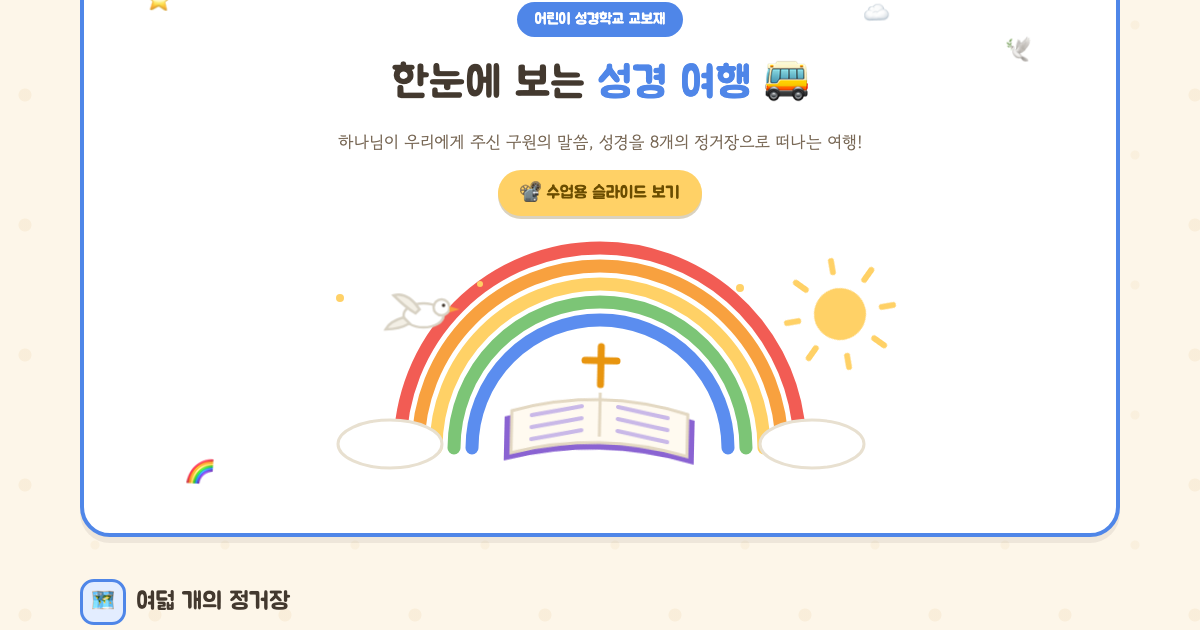
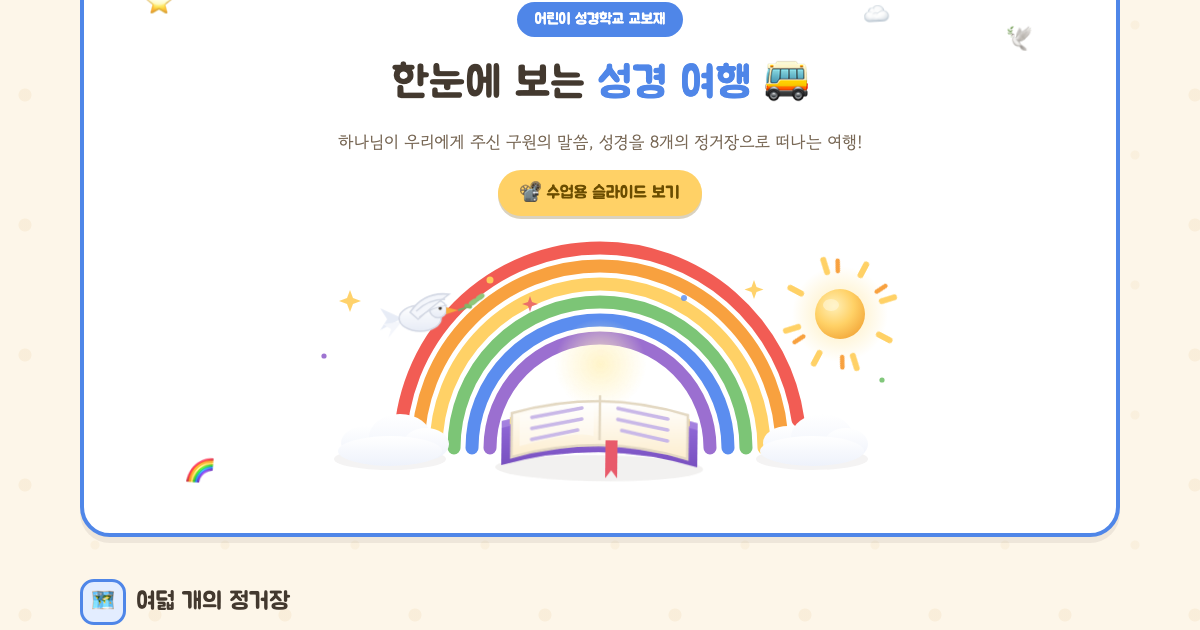
메인 히어로 일러스트 고도화 (비둘기·성경책·해·무지개·구름)
- 해: 글로우 + 2단 광선 + 그라데이션 코어
- 무지개: 보라 추가(6색) + 둥근 끝
- 구름: 다층 퍼프 + 그림자로 입체감
- 성경: 금박 페이지·책갈피 리본·왼면 하이라이트·십자가 후광·그라데이션 표지
- 비둘기: 그라데이션 몸통·날개 깃·꼬리깃·올리브 가지
- 반짝임 4점 별 추가, OG 썸네일 재생성

diff --git a/index.html b/index.html
@@ -60,55 +60,137 @@
     <!-- 직접 그린 SVG 일러스트 (저작권 걱정 없음) -->
     <div class="hero-art">
       <svg viewBox="0 -24 640 264" width="640" role="img" aria-label="펼쳐진 성경책 위로 무지개와 비둘기가 있는 그림">
+        <defs>
+          <radialGradient id="hhSun" cx="38%" cy="34%" r="72%">
+            <stop offset="0" stop-color="#fff0b8"/><stop offset="55%" stop-color="#ffd166"/><stop offset="100%" stop-color="#f3a93c"/>
+          </radialGradient>
+          <radialGradient id="hhSunGlow" cx="50%" cy="50%" r="50%">
+            <stop offset="0" stop-color="#ffe9a8" stop-opacity="0.85"/><stop offset="100%" stop-color="#ffe9a8" stop-opacity="0"/>
+          </radialGradient>
+          <linearGradient id="hhCover" x1="0" y1="0" x2="0" y2="1">
+            <stop offset="0" stop-color="#9a72e0"/><stop offset="100%" stop-color="#7850c0"/>
+          </linearGradient>
+          <linearGradient id="hhPage" x1="0" y1="0" x2="0" y2="1">
+            <stop offset="0" stop-color="#ffffff"/><stop offset="100%" stop-color="#fdeecf"/>
+          </linearGradient>
+          <radialGradient id="hhHalo" cx="50%" cy="50%" r="50%">
+            <stop offset="0" stop-color="#fff3c4" stop-opacity="0.95"/><stop offset="100%" stop-color="#fff3c4" stop-opacity="0"/>
+          </radialGradient>
+          <linearGradient id="hhCloud" x1="0" y1="0" x2="0" y2="1">
+            <stop offset="0" stop-color="#ffffff"/><stop offset="100%" stop-color="#eef2fb"/>
+          </linearGradient>
+          <linearGradient id="hhDove" x1="0" y1="0" x2="0" y2="1">
+            <stop offset="0" stop-color="#ffffff"/><stop offset="100%" stop-color="#e7ecf6"/>
+          </linearGradient>
+          <linearGradient id="hhCross" x1="0" y1="0" x2="0" y2="1">
+            <stop offset="0" stop-color="#ffd86b"/><stop offset="100%" stop-color="#e8950f"/>
+          </linearGradient>
+        </defs>
         <!-- 해 -->
-        <g class="anim-spin" style="transform-box: fill-box;">
-          <circle cx="560" cy="56" r="26" fill="#ffd166"/>
-          <g stroke="#ffd166" stroke-width="6" stroke-linecap="round">
-            <line x1="560" y1="14" x2="560" y2="2"/><line x1="560" y1="98" x2="560" y2="110"/>
-            <line x1="518" y1="56" x2="506" y2="56"/><line x1="602" y1="56" x2="614" y2="56"/>
-            <line x1="530" y1="26" x2="522" y2="18"/><line x1="590" y1="86" x2="598" y2="94"/>
-            <line x1="530" y1="86" x2="522" y2="94"/><line x1="590" y1="26" x2="598" y2="18"/>
+        <g>
+          <circle cx="560" cy="56" r="48" fill="url(#hhSunGlow)"/>
+          <g class="anim-spin" style="transform-box: fill-box;">
+            <g stroke="#ffd166" stroke-width="6" stroke-linecap="round">
+              <line x1="560" y1="12" x2="560" y2="0"/><line x1="560" y1="100" x2="560" y2="112"/>
+              <line x1="516" y1="56" x2="504" y2="56"/><line x1="604" y1="56" x2="616" y2="56"/>
+              <line x1="529" y1="25" x2="520" y2="16"/><line x1="591" y1="87" x2="600" y2="96"/>
+              <line x1="529" y1="87" x2="520" y2="96"/><line x1="591" y1="25" x2="600" y2="16"/>
+            </g>
+            <g stroke="#f8a13f" stroke-width="4.5" stroke-linecap="round">
+              <line x1="538" y1="19" x2="533" y2="10"/><line x1="582" y1="19" x2="587" y2="10"/>
+              <line x1="538" y1="93" x2="533" y2="102"/><line x1="582" y1="93" x2="587" y2="102"/>
+            </g>
           </g>
+          <circle cx="560" cy="56" r="25" fill="url(#hhSun)"/>
+          <ellipse cx="551" cy="47" rx="8" ry="6" fill="#fff6d8" opacity="0.6"/>
         </g>
         <!-- 무지개 -->
         <g fill="none" stroke-linecap="round">
           <path class="anim-draw" d="M120 190 A 200 200 0 0 1 520 190" stroke="#f25c54" stroke-width="13"/>
-          <path class="anim-draw" d="M138 190 A 182 182 0 0 1 502 190" stroke="#f8a13f" stroke-width="13" style="animation-delay:0.55s"/>
-          <path class="anim-draw" d="M156 190 A 164 164 0 0 1 484 190" stroke="#ffd166" stroke-width="13" style="animation-delay:0.7s"/>
-          <path class="anim-draw" d="M174 190 A 146 146 0 0 1 466 190" stroke="#7cc576" stroke-width="13" style="animation-delay:0.85s"/>
-          <path class="anim-draw" d="M192 190 A 128 128 0 0 1 448 190" stroke="#5b8def" stroke-width="13" style="animation-delay:1s"/>
+          <path class="anim-draw" d="M138 190 A 182 182 0 0 1 502 190" stroke="#f8a13f" stroke-width="13" style="animation-delay:0.5s"/>
+          <path class="anim-draw" d="M156 190 A 164 164 0 0 1 484 190" stroke="#ffd166" stroke-width="13" style="animation-delay:0.65s"/>
+          <path class="anim-draw" d="M174 190 A 146 146 0 0 1 466 190" stroke="#7cc576" stroke-width="13" style="animation-delay:0.8s"/>
+          <path class="anim-draw" d="M192 190 A 128 128 0 0 1 448 190" stroke="#5b8def" stroke-width="13" style="animation-delay:0.95s"/>
+          <path class="anim-draw" d="M210 190 A 110 110 0 0 1 430 190" stroke="#9b6fd0" stroke-width="13" style="animation-delay:1.1s"/>
         </g>
         <!-- 구름 -->
-        <g fill="#ffffff" stroke="#e8e0d0" stroke-width="3">
-          <ellipse cx="110" cy="186" rx="52" ry="24"/>
-          <ellipse cx="532" cy="186" rx="52" ry="24"/>
+        <g>
+          <ellipse cx="110" cy="201" rx="56" ry="11" fill="#43392f" opacity="0.06"/>
+          <ellipse cx="86" cy="185" rx="25" ry="17" fill="url(#hhCloud)"/>
+          <ellipse cx="120" cy="179" rx="31" ry="23" fill="url(#hhCloud)"/>
+          <ellipse cx="146" cy="186" rx="23" ry="16" fill="url(#hhCloud)"/>
+          <ellipse cx="110" cy="193" rx="52" ry="15" fill="url(#hhCloud)"/>
+        </g>
+        <g>
+          <ellipse cx="532" cy="201" rx="56" ry="11" fill="#43392f" opacity="0.06"/>
+          <ellipse cx="508" cy="185" rx="25" ry="17" fill="url(#hhCloud)"/>
+          <ellipse cx="542" cy="179" rx="31" ry="23" fill="url(#hhCloud)"/>
+          <ellipse cx="566" cy="186" rx="22" ry="16" fill="url(#hhCloud)"/>
+          <ellipse cx="532" cy="193" rx="52" ry="15" fill="url(#hhCloud)"/>
         </g>
         <!-- 펼쳐진 성경 -->
         <g class="anim-bob" style="transform-box: fill-box;">
-          <path d="M225 168 Q 320 140 415 168 L 415 212 Q 320 186 225 212 Z" fill="#8a63d2"/>
-          <path d="M232 162 Q 320 136 408 162 L 408 204 Q 320 180 232 204 Z" fill="#fffaf0" stroke="#e3d8c2" stroke-width="3"/>
-          <line x1="320" y1="142" x2="320" y2="186" stroke="#e3d8c2" stroke-width="3"/>
-          <g stroke="#c9b8e8" stroke-width="4" stroke-linecap="round">
-            <line x1="252" y1="166" x2="302" y2="156"/><line x1="252" y1="178" x2="302" y2="168"/><line x1="252" y1="190" x2="302" y2="180"/>
-            <line x1="338" y1="156" x2="388" y2="166"/><line x1="338" y1="168" x2="388" y2="178"/><line x1="338" y1="180" x2="388" y2="190"/>
+          <ellipse cx="320" cy="216" rx="104" ry="13" fill="#43392f" opacity="0.07"/>
+          <!-- 십자가 후광 -->
+          <circle cx="320" cy="112" r="46" fill="url(#hhHalo)" class="anim-blink"/>
+          <!-- 표지 -->
+          <path d="M222 170 Q 320 140 418 170 L 418 214 Q 320 186 222 214 Z" fill="url(#hhCover)"/>
+          <path d="M222 170 Q 320 140 418 170 L 418 177 Q 320 148 222 177 Z" fill="#b79ae8" opacity="0.5"/>
+          <!-- 페이지 금박 가장자리 -->
+          <path d="M230 166 Q 320 138 410 166 L 410 173 Q 320 145 230 173 Z" fill="#f4d98a"/>
+          <!-- 펼친 면 -->
+          <path d="M232 162 Q 320 136 408 162 L 408 206 Q 320 180 232 206 Z" fill="url(#hhPage)" stroke="#e3d8c2" stroke-width="2.5"/>
+          <line x1="320" y1="143" x2="320" y2="188" stroke="#e3d8c2" stroke-width="2.5"/>
+          <!-- 왼쪽 면 하이라이트 -->
+          <path d="M240 164 Q 296 147 314 153 L 314 184 Q 298 178 240 195 Z" fill="#ffffff" opacity="0.4"/>
+          <g stroke="#c9b8e8" stroke-width="3.5" stroke-linecap="round">
+            <line x1="252" y1="166" x2="302" y2="156"/><line x1="252" y1="177" x2="302" y2="167"/><line x1="252" y1="188" x2="298" y2="178"/>
+            <line x1="338" y1="156" x2="388" y2="166"/><line x1="338" y1="167" x2="388" y2="177"/><line x1="342" y1="178" x2="388" y2="188"/>
           </g>
+          <!-- 책갈피 리본 -->
+          <path d="M326 188 L 338 188 L 338 226 L 332 218 L 326 226 Z" fill="#e85a6a"/>
           <!-- 십자가 -->
-          <g stroke="#e8950f" stroke-width="7" stroke-linecap="round">
-            <line x1="320" y1="96" x2="320" y2="134"/>
-            <line x1="304" y1="110" x2="336" y2="110"/>
+          <g stroke="url(#hhCross)" stroke-width="7.5" stroke-linecap="round">
+            <line x1="320" y1="92" x2="320" y2="134"/>
+            <line x1="302" y1="108" x2="338" y2="108"/>
           </g>
+          <circle cx="320" cy="100" r="3" fill="#fff6d8" opacity="0.85"/>
         </g>
         <!-- 비둘기 -->
         <g class="anim-fly" style="transform-box: fill-box;">
-          <ellipse cx="120" cy="70" rx="20" ry="12" fill="#ffffff" stroke="#d8d2c4" stroke-width="2.5"/>
-          <circle cx="138" cy="62" r="8" fill="#ffffff" stroke="#d8d2c4" stroke-width="2.5"/>
-          <polygon points="146,61 156,64 146,67" fill="#f8a13f"/>
-          <circle cx="140" cy="60" r="1.7" fill="#43392f"/>
-          <path d="M116 64 Q 104 46 90 50 Q 102 62 112 68 Z" fill="#f3efe5" stroke="#d8d2c4" stroke-width="2.5"/>
-          <path d="M100 72 Q 86 76 82 84 Q 96 84 106 78 Z" fill="#f3efe5" stroke="#d8d2c4" stroke-width="2.5"/>
+          <!-- 꼬리깃 -->
+          <path d="M104 70 L 82 60 L 89 71 L 82 82 Z" fill="#e7ecf6"/>
+          <path d="M104 73 L 85 76 L 93 81 L 90 90 Z" fill="#f4f6fb"/>
+          <!-- 몸통 -->
+          <ellipse cx="122" cy="70" rx="21" ry="13" fill="url(#hhDove)" stroke="#d3d8e4" stroke-width="1.5"/>
+          <!-- 머리 -->
+          <circle cx="140" cy="61" r="8.5" fill="url(#hhDove)" stroke="#d3d8e4" stroke-width="1.5"/>
+          <!-- 부리 -->
+          <polygon points="148,59 160,62 148,66" fill="#f5a93c"/>
+          <!-- 눈 -->
+          <circle cx="142" cy="60" r="1.7" fill="#43392f"/>
+          <!-- 날개 -->
+          <path d="M112 64 Q 126 43 151 46 Q 132 60 120 71 Z" fill="#f4f6fb" stroke="#d3d8e4" stroke-width="1.5"/>
+          <path d="M118 63 Q 130 51 147 51" fill="none" stroke="#d3d8e4" stroke-width="1.4"/>
+          <path d="M121 69 Q 133 59 149 57" fill="none" stroke="#d3d8e4" stroke-width="1.2"/>
+          <!-- 올리브 가지 -->
+          <path d="M160 62 q12 -3 21 -11" fill="none" stroke="#7aa86a" stroke-width="2"/>
+          <ellipse cx="175" cy="54" rx="5" ry="2.6" fill="#8fc77a" transform="rotate(-32 175 54)"/>
+          <ellipse cx="182" cy="49" rx="5" ry="2.6" fill="#8fc77a" transform="rotate(-32 182 49)"/>
+          <ellipse cx="170" cy="58" rx="4" ry="2.2" fill="#7bb968" transform="rotate(18 170 58)"/>
         </g>
-        <!-- 별 -->
-        <g fill="#ffd166" class="anim-blink"><circle cx="60" cy="40" r="4"/><circle cx="200" cy="26" r="3"/><circle cx="460" cy="30" r="4"/></g>
+        <!-- 반짝임 -->
+        <g class="anim-blink">
+          <path d="M70 32 l3 8 8 3 -8 3 -3 8 -3 -8 -8 -3 8 -3 Z" fill="#ffd166"/>
+          <path d="M474 22 l2.5 7 7 2.5 -7 2.5 -2.5 7 -2.5 -7 -7 -2.5 7 -2.5 Z" fill="#ffd166"/>
+          <circle cx="210" cy="22" r="3.5" fill="#ffce5c"/>
+          <circle cx="44" cy="98" r="2.6" fill="#9b6fd0"/>
+          <circle cx="602" cy="122" r="2.6" fill="#7cc576"/>
+        </g>
+        <g class="anim-blink" style="animation-delay:1.1s">
+          <path d="M250 38 l2 6 6 2 -6 2 -2 6 -2 -6 -6 -2 6 -2 Z" fill="#e85a6a"/>
+          <circle cx="404" cy="40" r="3" fill="#5b8def"/>
+        </g>
       </svg>
     </div>
   </header>